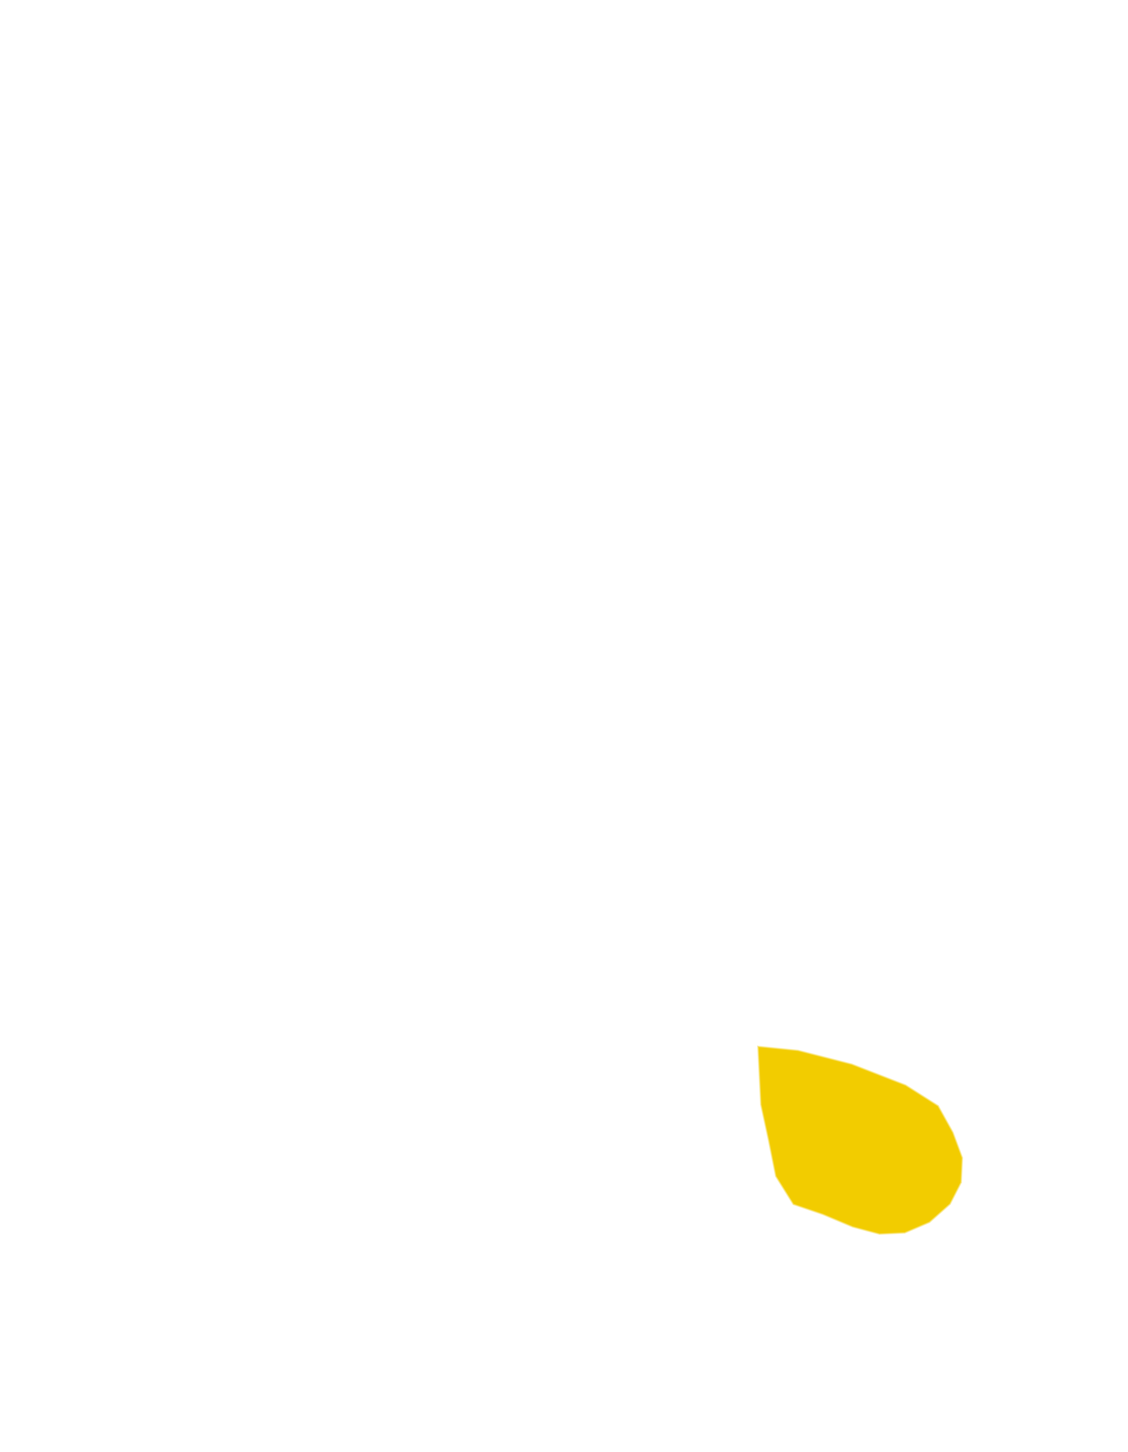
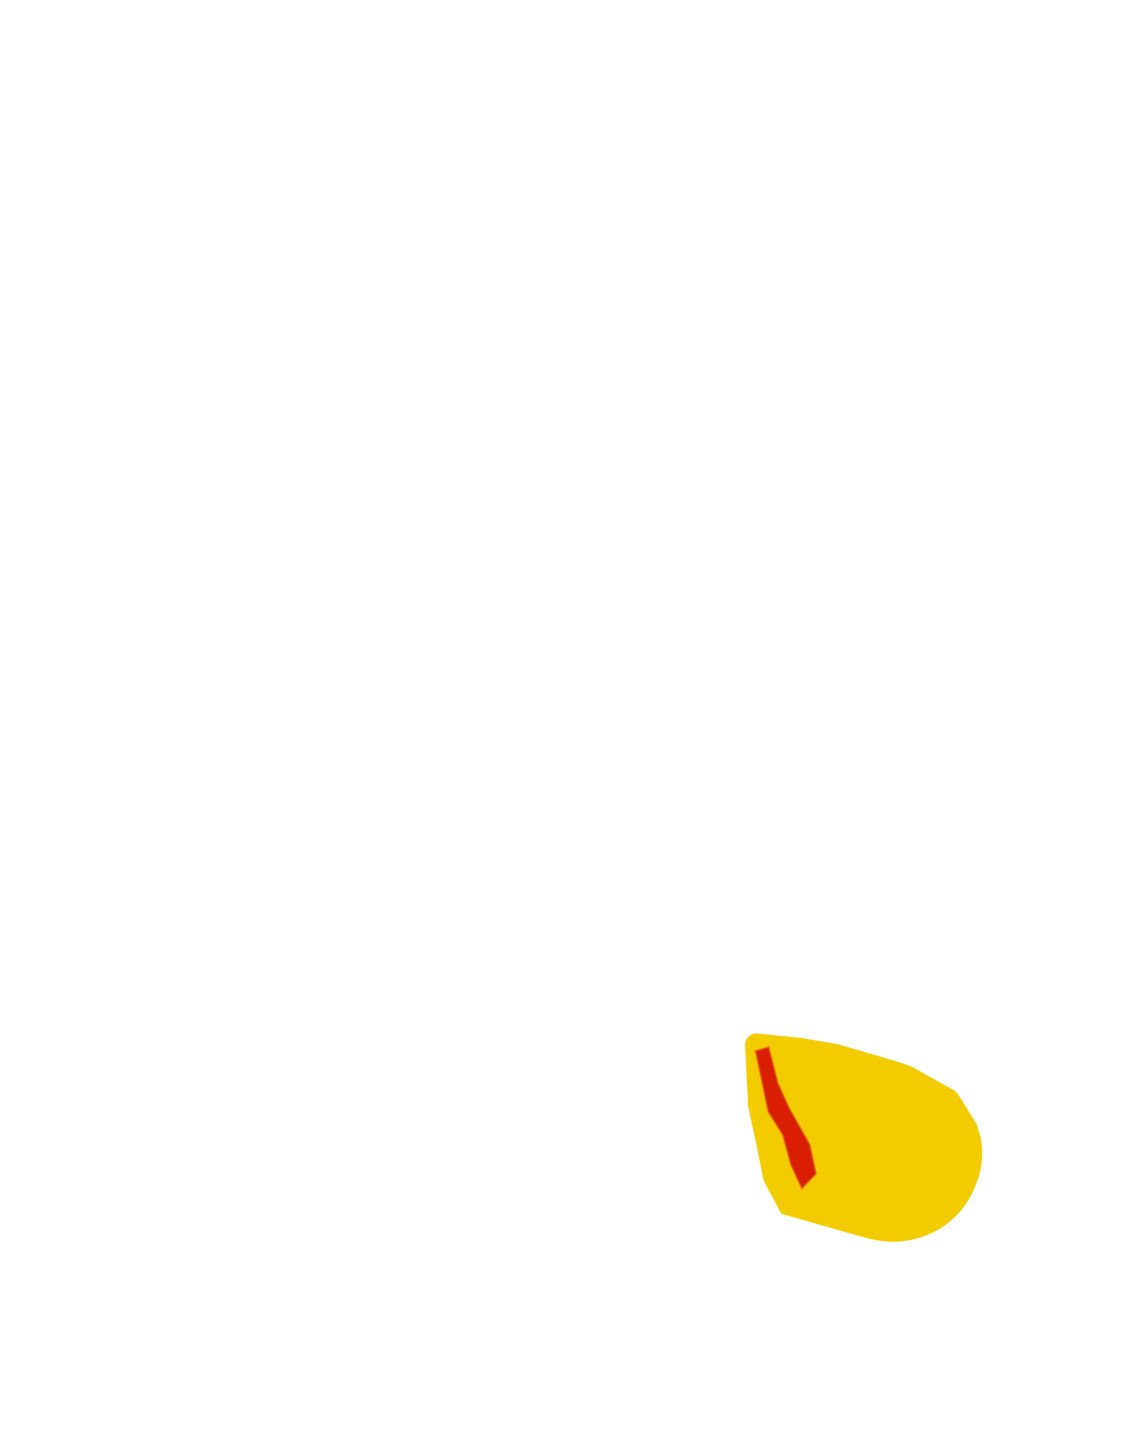
Bring pale field transition toward the road and add camera study controls

Changed region(s): [[0.6516, 0.7128, 0.8688, 0.8678]]

diff --git a/tools/build_field_coverage.py b/tools/build_field_coverage.py
@@ -260,7 +260,7 @@ if __name__ == "__main__":
     parser.add_argument(
         "--annotations",
         type=Path,
-        default=ROOT / "data/reference/turn2-straw-regions.json",
+        default=ROOT / "data/reference/turn2-straw-regions-roadside.json",
     )
     args = parser.parse_args()
     build(args.output_dir.resolve(), args.annotations.resolve())

diff --git a/docs/material-reference-comparison.md b/docs/material-reference-comparison.md
@@ -1520,3 +1520,35 @@ datum transform, not inferred from a screenshot. Correct the field transition
 along that actual road boundary before increasing the whole pale region's gain.
 The scene is still visibly synthetic. Native Mac testing was unavailable because
 the intended Tailscale peer reported offline during this pass.
+
+
+## Road constrained field transition
+
+The production map now uses `data/reference/turn2-straw-regions-roadside.json`.
+The historical pale outline expands by an artistic 12 metres, clipped at one
+metre from current road geometry. Disconnected pieces beyond the road are
+removed. Its interior feather remains 1.5 metres. This is a visual placement
+rule, not a measured vegetation edge or an instruction to change physics.
+The output SHA256 is
[1 lines of base64/hex data omitted]
+The builder defaults to the adopted annotation and records its own source hash.
+
+This correction narrows the broad brown apron visible through Turn 2. Entry and
+apex comparisons use identical camera and lighting with unchanged material gains:
+`artifacts/roadside-field-comparison/00.png` and `01.png`. Both root and independent
+review found a modest improvement without a new visible hard polygon edge.
+The imported production scene was also inspected at station 1280 in
+`artifacts/turn2-roadside-production-exit`. The near shoulder still appears too
+uniform, and scattered stubble does not yet convey the reference's flattened
+field. These stills do not establish temporal stability or photographic fidelity.
+Five field annotation tests cover datum mapping, blending, road clearance and
+exclusion of disconnected regions. No track geometry, friction or action schema
+changes are involved.
+
+The framing audit also found that recent comparisons used the 1.51 metre rider
+anchor. The existing 1.14 metre onboard anchor reveals too much cockpit for frame
+40. Preview overrides now independently control camera height (0.9 to 1.8 m),
+downward pitch (0 to 40 degrees), and FOV (50 to 110 degrees), reject nonfinite
+inputs and chase camera use, and save their values in capture metadata.
+The 1.37 metre study makes more cockpit visible but is not a recovered camera
+calibration. Human camera defaults and the policy camera remain unchanged.
